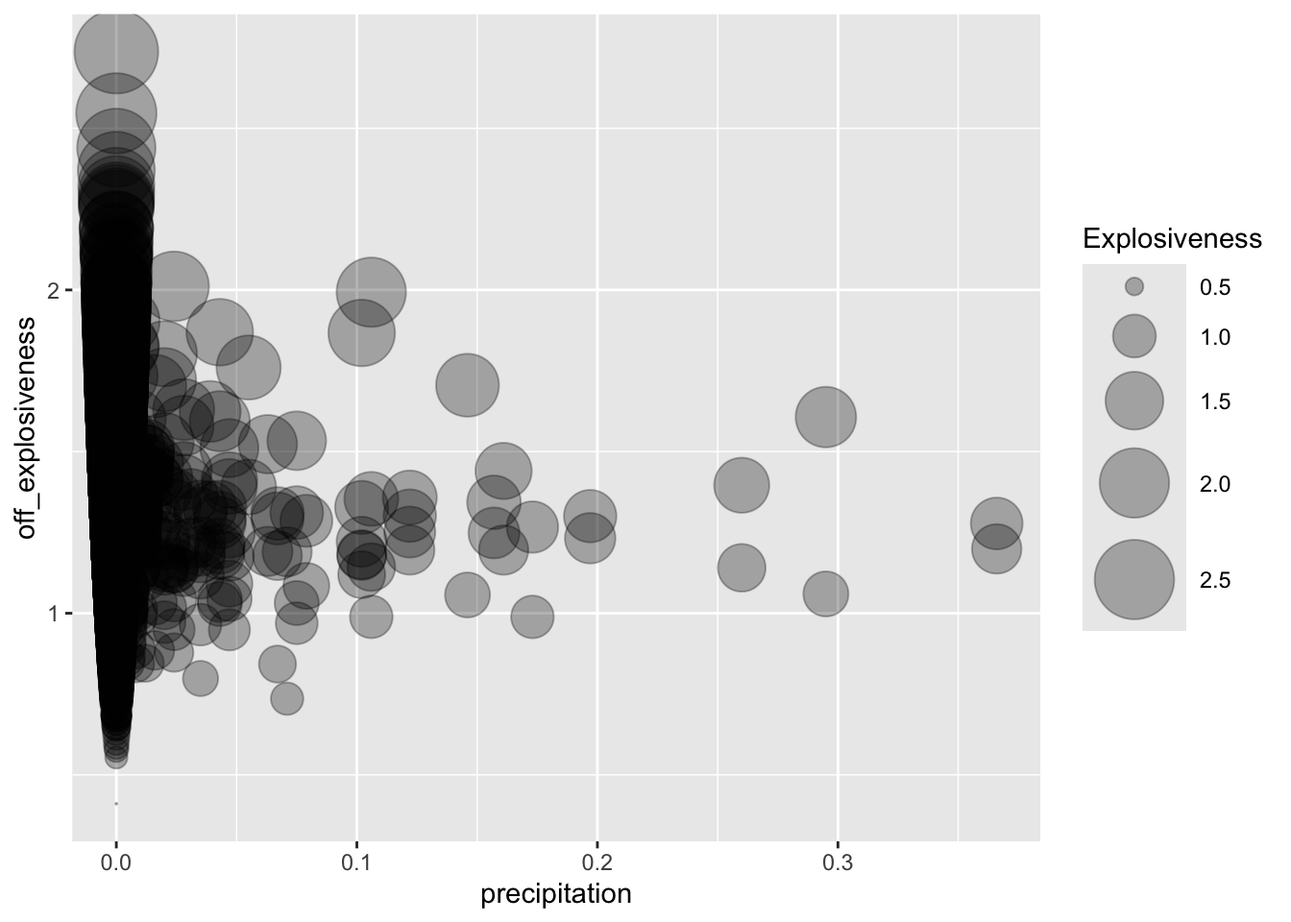
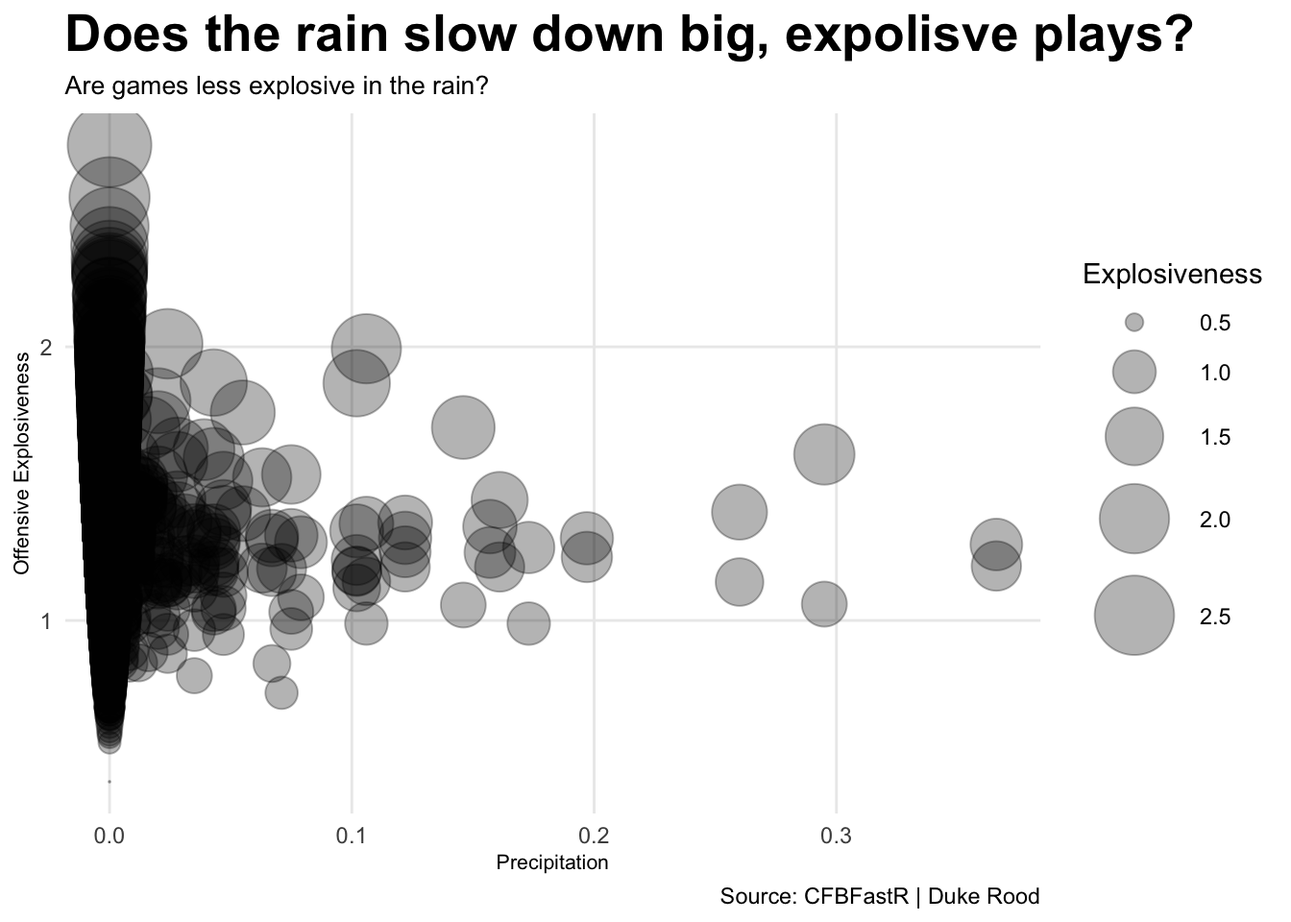
inl

diff --git a/blog/dukerood.github.io/index.html b/blog/dukerood.github.io/index.html
@@ -219,7 +219,21 @@ pre > code.sourceCode > span > a:first-child::before { text-decoration: underlin
 <summary>Code</summary>
 <div class="code-copy-outer-scaffold"><div class="sourceCode cell-code" id="cb2"><pre class="sourceCode r code-with-copy"><code class="sourceCode r"><span id="cb2-1"><a href="#cb2-1" aria-hidden="true" tabindex="-1"></a><span class="fu">ggplot</span>() <span class="sc">+</span> </span>
 <span id="cb2-2"><a href="#cb2-2" aria-hidden="true" tabindex="-1"></a>  <span class="fu">geom_point</span>(<span class="at">data=</span>scores_weather, <span class="fu">aes</span>(<span class="at">x=</span>temperature, <span class="at">y=</span>away_points)) <span class="sc">+</span></span>
-<span id="cb2-3"><a href="#cb2-3" aria-hidden="true" tabindex="-1"></a>  <span class="fu">geom_smooth</span>(<span class="at">data=</span>scores_weather, <span class="fu">aes</span>(<span class="at">x=</span>temperature, <span class="at">y=</span>away_points), <span class="at">method=</span><span class="st">"lm"</span>)</span></code></pre></div><button title="Copy to Clipboard" class="code-copy-button"><i class="bi"></i></button></div>
+<span id="cb2-3"><a href="#cb2-3" aria-hidden="true" tabindex="-1"></a>  <span class="fu">geom_smooth</span>(<span class="at">data=</span>scores_weather, <span class="fu">aes</span>(<span class="at">x=</span>temperature, <span class="at">y=</span>away_points), <span class="at">method=</span><span class="st">"lm"</span>)<span class="sc">+</span> </span>
+<span id="cb2-4"><a href="#cb2-4" aria-hidden="true" tabindex="-1"></a>  <span class="fu">labs</span>(</span>
+<span id="cb2-5"><a href="#cb2-5" aria-hidden="true" tabindex="-1"></a>    <span class="at">x=</span><span class="st">"Temperature"</span>, </span>
+<span id="cb2-6"><a href="#cb2-6" aria-hidden="true" tabindex="-1"></a>    <span class="at">y=</span><span class="st">"Away Team Points"</span>, </span>
+<span id="cb2-7"><a href="#cb2-7" aria-hidden="true" tabindex="-1"></a>    <span class="at">title=</span><span class="st">"Did the Away team score a lot in different climates"</span>, </span>
+<span id="cb2-8"><a href="#cb2-8" aria-hidden="true" tabindex="-1"></a>    <span class="at">subtitle=</span><span class="st">"Comapring this to Home teams average scoring in different climates"</span>, </span>
+<span id="cb2-9"><a href="#cb2-9" aria-hidden="true" tabindex="-1"></a>    <span class="at">caption=</span><span class="st">"Source: CFBFastR | Duke Rood"</span></span>
+<span id="cb2-10"><a href="#cb2-10" aria-hidden="true" tabindex="-1"></a>    ) <span class="sc">+</span></span>
+<span id="cb2-11"><a href="#cb2-11" aria-hidden="true" tabindex="-1"></a>  <span class="fu">theme_minimal</span>() <span class="sc">+</span> </span>
+<span id="cb2-12"><a href="#cb2-12" aria-hidden="true" tabindex="-1"></a>  <span class="fu">theme</span>(</span>
+<span id="cb2-13"><a href="#cb2-13" aria-hidden="true" tabindex="-1"></a>    <span class="at">plot.title =</span> <span class="fu">element_text</span>(<span class="at">size =</span> <span class="dv">20</span>, <span class="at">face =</span> <span class="st">"bold"</span>),</span>
+<span id="cb2-14"><a href="#cb2-14" aria-hidden="true" tabindex="-1"></a>    <span class="at">axis.title =</span> <span class="fu">element_text</span>(<span class="at">size =</span> <span class="dv">8</span>), </span>
+<span id="cb2-15"><a href="#cb2-15" aria-hidden="true" tabindex="-1"></a>    <span class="at">plot.subtitle =</span> <span class="fu">element_text</span>(<span class="at">size=</span><span class="dv">10</span>), </span>
+<span id="cb2-16"><a href="#cb2-16" aria-hidden="true" tabindex="-1"></a>    <span class="at">panel.grid.minor =</span> <span class="fu">element_blank</span>()</span>
+<span id="cb2-17"><a href="#cb2-17" aria-hidden="true" tabindex="-1"></a>    ) </span></code></pre></div><button title="Copy to Clipboard" class="code-copy-button"><i class="bi"></i></button></div>
 </details>
 <div class="cell-output-display">
 <div>
@@ -235,7 +249,21 @@ pre > code.sourceCode > span > a:first-child::before { text-decoration: underlin
 <summary>Code</summary>
 <div class="code-copy-outer-scaffold"><div class="sourceCode cell-code" id="cb3"><pre class="sourceCode r code-with-copy"><code class="sourceCode r"><span id="cb3-1"><a href="#cb3-1" aria-hidden="true" tabindex="-1"></a><span class="fu">ggplot</span>() <span class="sc">+</span> </span>
 <span id="cb3-2"><a href="#cb3-2" aria-hidden="true" tabindex="-1"></a>  <span class="fu">geom_point</span>(<span class="at">data=</span>scores_weather, <span class="fu">aes</span>(<span class="at">x=</span>temperature, <span class="at">y=</span>home_points)) <span class="sc">+</span></span>
-<span id="cb3-3"><a href="#cb3-3" aria-hidden="true" tabindex="-1"></a>  <span class="fu">geom_smooth</span>(<span class="at">data=</span>scores_weather, <span class="fu">aes</span>(<span class="at">x=</span>temperature, <span class="at">y=</span>home_points), <span class="at">method=</span><span class="st">"lm"</span>)</span></code></pre></div><button title="Copy to Clipboard" class="code-copy-button"><i class="bi"></i></button></div>
+<span id="cb3-3"><a href="#cb3-3" aria-hidden="true" tabindex="-1"></a>  <span class="fu">geom_smooth</span>(<span class="at">data=</span>scores_weather, <span class="fu">aes</span>(<span class="at">x=</span>temperature, <span class="at">y=</span>home_points), <span class="at">method=</span><span class="st">"lm"</span>)<span class="sc">+</span> </span>
+<span id="cb3-4"><a href="#cb3-4" aria-hidden="true" tabindex="-1"></a>  <span class="fu">labs</span>(</span>
+<span id="cb3-5"><a href="#cb3-5" aria-hidden="true" tabindex="-1"></a>    <span class="at">x=</span><span class="st">"Temperature"</span>, </span>
+<span id="cb3-6"><a href="#cb3-6" aria-hidden="true" tabindex="-1"></a>    <span class="at">y=</span><span class="st">"Away Team Points"</span>, </span>
+<span id="cb3-7"><a href="#cb3-7" aria-hidden="true" tabindex="-1"></a>    <span class="at">title=</span><span class="st">"Did the Home team score a lot in different climates"</span>, </span>
+<span id="cb3-8"><a href="#cb3-8" aria-hidden="true" tabindex="-1"></a>    <span class="at">subtitle=</span><span class="st">"Comapring this to Home teams average scoring in different climates"</span>, </span>
+<span id="cb3-9"><a href="#cb3-9" aria-hidden="true" tabindex="-1"></a>    <span class="at">caption=</span><span class="st">"Source: CFBFastR | Duke Rood"</span></span>
+<span id="cb3-10"><a href="#cb3-10" aria-hidden="true" tabindex="-1"></a>    ) <span class="sc">+</span></span>
+<span id="cb3-11"><a href="#cb3-11" aria-hidden="true" tabindex="-1"></a>  <span class="fu">theme_minimal</span>() <span class="sc">+</span> </span>
+<span id="cb3-12"><a href="#cb3-12" aria-hidden="true" tabindex="-1"></a>  <span class="fu">theme</span>(</span>
+<span id="cb3-13"><a href="#cb3-13" aria-hidden="true" tabindex="-1"></a>    <span class="at">plot.title =</span> <span class="fu">element_text</span>(<span class="at">size =</span> <span class="dv">20</span>, <span class="at">face =</span> <span class="st">"bold"</span>),</span>
+<span id="cb3-14"><a href="#cb3-14" aria-hidden="true" tabindex="-1"></a>    <span class="at">axis.title =</span> <span class="fu">element_text</span>(<span class="at">size =</span> <span class="dv">8</span>), </span>
+<span id="cb3-15"><a href="#cb3-15" aria-hidden="true" tabindex="-1"></a>    <span class="at">plot.subtitle =</span> <span class="fu">element_text</span>(<span class="at">size=</span><span class="dv">10</span>), </span>
+<span id="cb3-16"><a href="#cb3-16" aria-hidden="true" tabindex="-1"></a>    <span class="at">panel.grid.minor =</span> <span class="fu">element_blank</span>()</span>
+<span id="cb3-17"><a href="#cb3-17" aria-hidden="true" tabindex="-1"></a>    ) </span></code></pre></div><button title="Copy to Clipboard" class="code-copy-button"><i class="bi"></i></button></div>
 </details>
 <div class="cell-output-display">
 <div>
@@ -308,7 +336,21 @@ F-statistic: 0.9715 on 1 and 3173 DF,  p-value: 0.3244</code></pre>
 <div class="cell">
 <details class="code-fold">
 <summary>Code</summary>
-<div class="code-copy-outer-scaffold"><div class="sourceCode cell-code" id="cb8"><pre class="sourceCode r code-with-copy"><code class="sourceCode r"><span id="cb8-1"><a href="#cb8-1" aria-hidden="true" tabindex="-1"></a><span class="fu">ggplot</span>() <span class="sc">+</span> <span class="fu">geom_line</span>(<span class="at">data =</span> game_weather, <span class="fu">aes</span>(<span class="at">x=</span>off_passing_downs_success_rate, <span class="at">y=</span>precipitation)) </span></code></pre></div><button title="Copy to Clipboard" class="code-copy-button"><i class="bi"></i></button></div>
+<div class="code-copy-outer-scaffold"><div class="sourceCode cell-code" id="cb8"><pre class="sourceCode r code-with-copy"><code class="sourceCode r"><span id="cb8-1"><a href="#cb8-1" aria-hidden="true" tabindex="-1"></a><span class="fu">ggplot</span>() <span class="sc">+</span> <span class="fu">geom_line</span>(<span class="at">data =</span> game_weather, <span class="fu">aes</span>(<span class="at">x=</span>off_passing_downs_success_rate, <span class="at">y=</span>precipitation)) <span class="sc">+</span> </span>
+<span id="cb8-2"><a href="#cb8-2" aria-hidden="true" tabindex="-1"></a>  <span class="fu">labs</span>(</span>
+<span id="cb8-3"><a href="#cb8-3" aria-hidden="true" tabindex="-1"></a>    <span class="at">x=</span><span class="st">"Offensive Passing Success Rate"</span>, </span>
+<span id="cb8-4"><a href="#cb8-4" aria-hidden="true" tabindex="-1"></a>    <span class="at">y=</span><span class="st">"Precipitation"</span>, </span>
+<span id="cb8-5"><a href="#cb8-5" aria-hidden="true" tabindex="-1"></a>    <span class="at">title=</span><span class="st">"Is Passing successful in Rainy conditions"</span>, </span>
+<span id="cb8-6"><a href="#cb8-6" aria-hidden="true" tabindex="-1"></a>    <span class="at">subtitle=</span><span class="st">"Seeing if the rain damages the Passing Parade"</span>, </span>
+<span id="cb8-7"><a href="#cb8-7" aria-hidden="true" tabindex="-1"></a>    <span class="at">caption=</span><span class="st">"Source: CFBFastR | Duke Rood"</span></span>
+<span id="cb8-8"><a href="#cb8-8" aria-hidden="true" tabindex="-1"></a>    ) <span class="sc">+</span></span>
+<span id="cb8-9"><a href="#cb8-9" aria-hidden="true" tabindex="-1"></a>  <span class="fu">theme_minimal</span>() <span class="sc">+</span> </span>
+<span id="cb8-10"><a href="#cb8-10" aria-hidden="true" tabindex="-1"></a>  <span class="fu">theme</span>(</span>
+<span id="cb8-11"><a href="#cb8-11" aria-hidden="true" tabindex="-1"></a>    <span class="at">plot.title =</span> <span class="fu">element_text</span>(<span class="at">size =</span> <span class="dv">20</span>, <span class="at">face =</span> <span class="st">"bold"</span>),</span>
+<span id="cb8-12"><a href="#cb8-12" aria-hidden="true" tabindex="-1"></a>    <span class="at">axis.title =</span> <span class="fu">element_text</span>(<span class="at">size =</span> <span class="dv">8</span>), </span>
+<span id="cb8-13"><a href="#cb8-13" aria-hidden="true" tabindex="-1"></a>    <span class="at">plot.subtitle =</span> <span class="fu">element_text</span>(<span class="at">size=</span><span class="dv">10</span>), </span>
+<span id="cb8-14"><a href="#cb8-14" aria-hidden="true" tabindex="-1"></a>    <span class="at">panel.grid.minor =</span> <span class="fu">element_blank</span>()</span>
+<span id="cb8-15"><a href="#cb8-15" aria-hidden="true" tabindex="-1"></a>    ) </span></code></pre></div><button title="Copy to Clipboard" class="code-copy-button"><i class="bi"></i></button></div>
 </details>
 <div class="cell-output-display">
 <div>
@@ -328,7 +370,21 @@ F-statistic: 0.9715 on 1 and 3173 DF,  p-value: 0.3244</code></pre>
 <span id="cb9-3"><a href="#cb9-3" aria-hidden="true" tabindex="-1"></a>    <span class="at">data=</span>game_weather, </span>
 <span id="cb9-4"><a href="#cb9-4" aria-hidden="true" tabindex="-1"></a>    <span class="fu">aes</span>(<span class="at">x=</span>precipitation, <span class="at">y=</span>off_explosiveness, <span class="at">size=</span>off_explosiveness),</span>
 <span id="cb9-5"><a href="#cb9-5" aria-hidden="true" tabindex="-1"></a>    <span class="at">alpha =</span> <span class="fl">0.3</span>) <span class="sc">+</span> </span>
-<span id="cb9-6"><a href="#cb9-6" aria-hidden="true" tabindex="-1"></a>  <span class="fu">scale_size</span>(<span class="at">range =</span> <span class="fu">c</span>(<span class="dv">0</span>, <span class="dv">15</span>), <span class="at">name=</span><span class="st">"Explosiveness"</span>)</span></code></pre></div><button title="Copy to Clipboard" class="code-copy-button"><i class="bi"></i></button></div>
+<span id="cb9-6"><a href="#cb9-6" aria-hidden="true" tabindex="-1"></a>  <span class="fu">scale_size</span>(<span class="at">range =</span> <span class="fu">c</span>(<span class="dv">0</span>, <span class="dv">15</span>), <span class="at">name=</span><span class="st">"Explosiveness"</span>)<span class="sc">+</span> </span>
+<span id="cb9-7"><a href="#cb9-7" aria-hidden="true" tabindex="-1"></a>  <span class="fu">labs</span>(</span>
+<span id="cb9-8"><a href="#cb9-8" aria-hidden="true" tabindex="-1"></a>    <span class="at">x=</span><span class="st">"Precipitation"</span>, </span>
+<span id="cb9-9"><a href="#cb9-9" aria-hidden="true" tabindex="-1"></a>    <span class="at">y=</span><span class="st">"Offensive Explosiveness"</span>, </span>
+<span id="cb9-10"><a href="#cb9-10" aria-hidden="true" tabindex="-1"></a>    <span class="at">title=</span><span class="st">"Does the rain slow down big, expolisve plays?"</span>, </span>
+<span id="cb9-11"><a href="#cb9-11" aria-hidden="true" tabindex="-1"></a>    <span class="at">subtitle=</span><span class="st">"Are games less explosive in the rain?"</span>, </span>
+<span id="cb9-12"><a href="#cb9-12" aria-hidden="true" tabindex="-1"></a>    <span class="at">caption=</span><span class="st">"Source: CFBFastR | Duke Rood"</span></span>
+<span id="cb9-13"><a href="#cb9-13" aria-hidden="true" tabindex="-1"></a>    ) <span class="sc">+</span></span>
+<span id="cb9-14"><a href="#cb9-14" aria-hidden="true" tabindex="-1"></a>  <span class="fu">theme_minimal</span>() <span class="sc">+</span> </span>
+<span id="cb9-15"><a href="#cb9-15" aria-hidden="true" tabindex="-1"></a>  <span class="fu">theme</span>(</span>
+<span id="cb9-16"><a href="#cb9-16" aria-hidden="true" tabindex="-1"></a>    <span class="at">plot.title =</span> <span class="fu">element_text</span>(<span class="at">size =</span> <span class="dv">20</span>, <span class="at">face =</span> <span class="st">"bold"</span>),</span>
+<span id="cb9-17"><a href="#cb9-17" aria-hidden="true" tabindex="-1"></a>    <span class="at">axis.title =</span> <span class="fu">element_text</span>(<span class="at">size =</span> <span class="dv">8</span>), </span>
+<span id="cb9-18"><a href="#cb9-18" aria-hidden="true" tabindex="-1"></a>    <span class="at">plot.subtitle =</span> <span class="fu">element_text</span>(<span class="at">size=</span><span class="dv">10</span>), </span>
+<span id="cb9-19"><a href="#cb9-19" aria-hidden="true" tabindex="-1"></a>    <span class="at">panel.grid.minor =</span> <span class="fu">element_blank</span>()</span>
+<span id="cb9-20"><a href="#cb9-20" aria-hidden="true" tabindex="-1"></a>    ) </span></code></pre></div><button title="Copy to Clipboard" class="code-copy-button"><i class="bi"></i></button></div>
 </details>
 <div class="cell-output-display">
 <div>

diff --git a/dukerood.github.io/does-weather-affect-college-football-games/index.html b/dukerood.github.io/does-weather-affect-college-football-games/index.html
@@ -218,7 +218,21 @@ pre > code.sourceCode > span > a:first-child::before { text-decoration: underlin
 <summary>Code</summary>
 <div class="code-copy-outer-scaffold"><div class="sourceCode cell-code" id="cb2"><pre class="sourceCode r code-with-copy"><code class="sourceCode r"><span id="cb2-1"><a href="#cb2-1" aria-hidden="true" tabindex="-1"></a><span class="fu">ggplot</span>() <span class="sc">+</span> </span>
 <span id="cb2-2"><a href="#cb2-2" aria-hidden="true" tabindex="-1"></a>  <span class="fu">geom_point</span>(<span class="at">data=</span>scores_weather, <span class="fu">aes</span>(<span class="at">x=</span>temperature, <span class="at">y=</span>away_points)) <span class="sc">+</span></span>
-<span id="cb2-3"><a href="#cb2-3" aria-hidden="true" tabindex="-1"></a>  <span class="fu">geom_smooth</span>(<span class="at">data=</span>scores_weather, <span class="fu">aes</span>(<span class="at">x=</span>temperature, <span class="at">y=</span>away_points), <span class="at">method=</span><span class="st">"lm"</span>)</span></code></pre></div><button title="Copy to Clipboard" class="code-copy-button"><i class="bi"></i></button></div>
+<span id="cb2-3"><a href="#cb2-3" aria-hidden="true" tabindex="-1"></a>  <span class="fu">geom_smooth</span>(<span class="at">data=</span>scores_weather, <span class="fu">aes</span>(<span class="at">x=</span>temperature, <span class="at">y=</span>away_points), <span class="at">method=</span><span class="st">"lm"</span>)<span class="sc">+</span> </span>
+<span id="cb2-4"><a href="#cb2-4" aria-hidden="true" tabindex="-1"></a>  <span class="fu">labs</span>(</span>
+<span id="cb2-5"><a href="#cb2-5" aria-hidden="true" tabindex="-1"></a>    <span class="at">x=</span><span class="st">"Temperature"</span>, </span>
+<span id="cb2-6"><a href="#cb2-6" aria-hidden="true" tabindex="-1"></a>    <span class="at">y=</span><span class="st">"Away Team Points"</span>, </span>
+<span id="cb2-7"><a href="#cb2-7" aria-hidden="true" tabindex="-1"></a>    <span class="at">title=</span><span class="st">"Did the Away team score a lot in different climates"</span>, </span>
+<span id="cb2-8"><a href="#cb2-8" aria-hidden="true" tabindex="-1"></a>    <span class="at">subtitle=</span><span class="st">"Comapring this to Home teams average scoring in different climates"</span>, </span>
+<span id="cb2-9"><a href="#cb2-9" aria-hidden="true" tabindex="-1"></a>    <span class="at">caption=</span><span class="st">"Source: CFBFastR | Duke Rood"</span></span>
+<span id="cb2-10"><a href="#cb2-10" aria-hidden="true" tabindex="-1"></a>    ) <span class="sc">+</span></span>
+<span id="cb2-11"><a href="#cb2-11" aria-hidden="true" tabindex="-1"></a>  <span class="fu">theme_minimal</span>() <span class="sc">+</span> </span>
+<span id="cb2-12"><a href="#cb2-12" aria-hidden="true" tabindex="-1"></a>  <span class="fu">theme</span>(</span>
+<span id="cb2-13"><a href="#cb2-13" aria-hidden="true" tabindex="-1"></a>    <span class="at">plot.title =</span> <span class="fu">element_text</span>(<span class="at">size =</span> <span class="dv">20</span>, <span class="at">face =</span> <span class="st">"bold"</span>),</span>
+<span id="cb2-14"><a href="#cb2-14" aria-hidden="true" tabindex="-1"></a>    <span class="at">axis.title =</span> <span class="fu">element_text</span>(<span class="at">size =</span> <span class="dv">8</span>), </span>
+<span id="cb2-15"><a href="#cb2-15" aria-hidden="true" tabindex="-1"></a>    <span class="at">plot.subtitle =</span> <span class="fu">element_text</span>(<span class="at">size=</span><span class="dv">10</span>), </span>
+<span id="cb2-16"><a href="#cb2-16" aria-hidden="true" tabindex="-1"></a>    <span class="at">panel.grid.minor =</span> <span class="fu">element_blank</span>()</span>
+<span id="cb2-17"><a href="#cb2-17" aria-hidden="true" tabindex="-1"></a>    ) </span></code></pre></div><button title="Copy to Clipboard" class="code-copy-button"><i class="bi"></i></button></div>
 </details>
 <div class="cell-output-display">
 <div>
@@ -234,7 +248,21 @@ pre > code.sourceCode > span > a:first-child::before { text-decoration: underlin
 <summary>Code</summary>
 <div class="code-copy-outer-scaffold"><div class="sourceCode cell-code" id="cb3"><pre class="sourceCode r code-with-copy"><code class="sourceCode r"><span id="cb3-1"><a href="#cb3-1" aria-hidden="true" tabindex="-1"></a><span class="fu">ggplot</span>() <span class="sc">+</span> </span>
 <span id="cb3-2"><a href="#cb3-2" aria-hidden="true" tabindex="-1"></a>  <span class="fu">geom_point</span>(<span class="at">data=</span>scores_weather, <span class="fu">aes</span>(<span class="at">x=</span>temperature, <span class="at">y=</span>home_points)) <span class="sc">+</span></span>
-<span id="cb3-3"><a href="#cb3-3" aria-hidden="true" tabindex="-1"></a>  <span class="fu">geom_smooth</span>(<span class="at">data=</span>scores_weather, <span class="fu">aes</span>(<span class="at">x=</span>temperature, <span class="at">y=</span>home_points), <span class="at">method=</span><span class="st">"lm"</span>)</span></code></pre></div><button title="Copy to Clipboard" class="code-copy-button"><i class="bi"></i></button></div>
+<span id="cb3-3"><a href="#cb3-3" aria-hidden="true" tabindex="-1"></a>  <span class="fu">geom_smooth</span>(<span class="at">data=</span>scores_weather, <span class="fu">aes</span>(<span class="at">x=</span>temperature, <span class="at">y=</span>home_points), <span class="at">method=</span><span class="st">"lm"</span>)<span class="sc">+</span> </span>
+<span id="cb3-4"><a href="#cb3-4" aria-hidden="true" tabindex="-1"></a>  <span class="fu">labs</span>(</span>
+<span id="cb3-5"><a href="#cb3-5" aria-hidden="true" tabindex="-1"></a>    <span class="at">x=</span><span class="st">"Temperature"</span>, </span>
+<span id="cb3-6"><a href="#cb3-6" aria-hidden="true" tabindex="-1"></a>    <span class="at">y=</span><span class="st">"Away Team Points"</span>, </span>
+<span id="cb3-7"><a href="#cb3-7" aria-hidden="true" tabindex="-1"></a>    <span class="at">title=</span><span class="st">"Did the Home team score a lot in different climates"</span>, </span>
+<span id="cb3-8"><a href="#cb3-8" aria-hidden="true" tabindex="-1"></a>    <span class="at">subtitle=</span><span class="st">"Comapring this to Home teams average scoring in different climates"</span>, </span>
+<span id="cb3-9"><a href="#cb3-9" aria-hidden="true" tabindex="-1"></a>    <span class="at">caption=</span><span class="st">"Source: CFBFastR | Duke Rood"</span></span>
+<span id="cb3-10"><a href="#cb3-10" aria-hidden="true" tabindex="-1"></a>    ) <span class="sc">+</span></span>
+<span id="cb3-11"><a href="#cb3-11" aria-hidden="true" tabindex="-1"></a>  <span class="fu">theme_minimal</span>() <span class="sc">+</span> </span>
+<span id="cb3-12"><a href="#cb3-12" aria-hidden="true" tabindex="-1"></a>  <span class="fu">theme</span>(</span>
+<span id="cb3-13"><a href="#cb3-13" aria-hidden="true" tabindex="-1"></a>    <span class="at">plot.title =</span> <span class="fu">element_text</span>(<span class="at">size =</span> <span class="dv">20</span>, <span class="at">face =</span> <span class="st">"bold"</span>),</span>
+<span id="cb3-14"><a href="#cb3-14" aria-hidden="true" tabindex="-1"></a>    <span class="at">axis.title =</span> <span class="fu">element_text</span>(<span class="at">size =</span> <span class="dv">8</span>), </span>
+<span id="cb3-15"><a href="#cb3-15" aria-hidden="true" tabindex="-1"></a>    <span class="at">plot.subtitle =</span> <span class="fu">element_text</span>(<span class="at">size=</span><span class="dv">10</span>), </span>
+<span id="cb3-16"><a href="#cb3-16" aria-hidden="true" tabindex="-1"></a>    <span class="at">panel.grid.minor =</span> <span class="fu">element_blank</span>()</span>
+<span id="cb3-17"><a href="#cb3-17" aria-hidden="true" tabindex="-1"></a>    ) </span></code></pre></div><button title="Copy to Clipboard" class="code-copy-button"><i class="bi"></i></button></div>
 </details>
 <div class="cell-output-display">
 <div>
@@ -307,7 +335,21 @@ F-statistic: 0.9715 on 1 and 3173 DF,  p-value: 0.3244</code></pre>
 <div class="cell">
 <details class="code-fold">
 <summary>Code</summary>
-<div class="code-copy-outer-scaffold"><div class="sourceCode cell-code" id="cb8"><pre class="sourceCode r code-with-copy"><code class="sourceCode r"><span id="cb8-1"><a href="#cb8-1" aria-hidden="true" tabindex="-1"></a><span class="fu">ggplot</span>() <span class="sc">+</span> <span class="fu">geom_line</span>(<span class="at">data =</span> game_weather, <span class="fu">aes</span>(<span class="at">x=</span>off_passing_downs_success_rate, <span class="at">y=</span>precipitation)) </span></code></pre></div><button title="Copy to Clipboard" class="code-copy-button"><i class="bi"></i></button></div>
+<div class="code-copy-outer-scaffold"><div class="sourceCode cell-code" id="cb8"><pre class="sourceCode r code-with-copy"><code class="sourceCode r"><span id="cb8-1"><a href="#cb8-1" aria-hidden="true" tabindex="-1"></a><span class="fu">ggplot</span>() <span class="sc">+</span> <span class="fu">geom_line</span>(<span class="at">data =</span> game_weather, <span class="fu">aes</span>(<span class="at">x=</span>off_passing_downs_success_rate, <span class="at">y=</span>precipitation)) <span class="sc">+</span> </span>
+<span id="cb8-2"><a href="#cb8-2" aria-hidden="true" tabindex="-1"></a>  <span class="fu">labs</span>(</span>
+<span id="cb8-3"><a href="#cb8-3" aria-hidden="true" tabindex="-1"></a>    <span class="at">x=</span><span class="st">"Offensive Passing Success Rate"</span>, </span>
+<span id="cb8-4"><a href="#cb8-4" aria-hidden="true" tabindex="-1"></a>    <span class="at">y=</span><span class="st">"Precipitation"</span>, </span>
+<span id="cb8-5"><a href="#cb8-5" aria-hidden="true" tabindex="-1"></a>    <span class="at">title=</span><span class="st">"Is Passing successful in Rainy conditions"</span>, </span>
+<span id="cb8-6"><a href="#cb8-6" aria-hidden="true" tabindex="-1"></a>    <span class="at">subtitle=</span><span class="st">"Seeing if the rain damages the Passing Parade"</span>, </span>
+<span id="cb8-7"><a href="#cb8-7" aria-hidden="true" tabindex="-1"></a>    <span class="at">caption=</span><span class="st">"Source: CFBFastR | Duke Rood"</span></span>
+<span id="cb8-8"><a href="#cb8-8" aria-hidden="true" tabindex="-1"></a>    ) <span class="sc">+</span></span>
+<span id="cb8-9"><a href="#cb8-9" aria-hidden="true" tabindex="-1"></a>  <span class="fu">theme_minimal</span>() <span class="sc">+</span> </span>
+<span id="cb8-10"><a href="#cb8-10" aria-hidden="true" tabindex="-1"></a>  <span class="fu">theme</span>(</span>
+<span id="cb8-11"><a href="#cb8-11" aria-hidden="true" tabindex="-1"></a>    <span class="at">plot.title =</span> <span class="fu">element_text</span>(<span class="at">size =</span> <span class="dv">20</span>, <span class="at">face =</span> <span class="st">"bold"</span>),</span>
+<span id="cb8-12"><a href="#cb8-12" aria-hidden="true" tabindex="-1"></a>    <span class="at">axis.title =</span> <span class="fu">element_text</span>(<span class="at">size =</span> <span class="dv">8</span>), </span>
+<span id="cb8-13"><a href="#cb8-13" aria-hidden="true" tabindex="-1"></a>    <span class="at">plot.subtitle =</span> <span class="fu">element_text</span>(<span class="at">size=</span><span class="dv">10</span>), </span>
+<span id="cb8-14"><a href="#cb8-14" aria-hidden="true" tabindex="-1"></a>    <span class="at">panel.grid.minor =</span> <span class="fu">element_blank</span>()</span>
+<span id="cb8-15"><a href="#cb8-15" aria-hidden="true" tabindex="-1"></a>    ) </span></code></pre></div><button title="Copy to Clipboard" class="code-copy-button"><i class="bi"></i></button></div>
 </details>
 <div class="cell-output-display">
 <div>
@@ -327,7 +369,21 @@ F-statistic: 0.9715 on 1 and 3173 DF,  p-value: 0.3244</code></pre>
 <span id="cb9-3"><a href="#cb9-3" aria-hidden="true" tabindex="-1"></a>    <span class="at">data=</span>game_weather, </span>
 <span id="cb9-4"><a href="#cb9-4" aria-hidden="true" tabindex="-1"></a>    <span class="fu">aes</span>(<span class="at">x=</span>precipitation, <span class="at">y=</span>off_explosiveness, <span class="at">size=</span>off_explosiveness),</span>
 <span id="cb9-5"><a href="#cb9-5" aria-hidden="true" tabindex="-1"></a>    <span class="at">alpha =</span> <span class="fl">0.3</span>) <span class="sc">+</span> </span>
-<span id="cb9-6"><a href="#cb9-6" aria-hidden="true" tabindex="-1"></a>  <span class="fu">scale_size</span>(<span class="at">range =</span> <span class="fu">c</span>(<span class="dv">0</span>, <span class="dv">15</span>), <span class="at">name=</span><span class="st">"Explosiveness"</span>)</span></code></pre></div><button title="Copy to Clipboard" class="code-copy-button"><i class="bi"></i></button></div>
+<span id="cb9-6"><a href="#cb9-6" aria-hidden="true" tabindex="-1"></a>  <span class="fu">scale_size</span>(<span class="at">range =</span> <span class="fu">c</span>(<span class="dv">0</span>, <span class="dv">15</span>), <span class="at">name=</span><span class="st">"Explosiveness"</span>)<span class="sc">+</span> </span>
+<span id="cb9-7"><a href="#cb9-7" aria-hidden="true" tabindex="-1"></a>  <span class="fu">labs</span>(</span>
+<span id="cb9-8"><a href="#cb9-8" aria-hidden="true" tabindex="-1"></a>    <span class="at">x=</span><span class="st">"Precipitation"</span>, </span>
+<span id="cb9-9"><a href="#cb9-9" aria-hidden="true" tabindex="-1"></a>    <span class="at">y=</span><span class="st">"Offensive Explosiveness"</span>, </span>
+<span id="cb9-10"><a href="#cb9-10" aria-hidden="true" tabindex="-1"></a>    <span class="at">title=</span><span class="st">"Does the rain slow down big, expolisve plays?"</span>, </span>
+<span id="cb9-11"><a href="#cb9-11" aria-hidden="true" tabindex="-1"></a>    <span class="at">subtitle=</span><span class="st">"Are games less explosive in the rain?"</span>, </span>
+<span id="cb9-12"><a href="#cb9-12" aria-hidden="true" tabindex="-1"></a>    <span class="at">caption=</span><span class="st">"Source: CFBFastR | Duke Rood"</span></span>
+<span id="cb9-13"><a href="#cb9-13" aria-hidden="true" tabindex="-1"></a>    ) <span class="sc">+</span></span>
+<span id="cb9-14"><a href="#cb9-14" aria-hidden="true" tabindex="-1"></a>  <span class="fu">theme_minimal</span>() <span class="sc">+</span> </span>
+<span id="cb9-15"><a href="#cb9-15" aria-hidden="true" tabindex="-1"></a>  <span class="fu">theme</span>(</span>
+<span id="cb9-16"><a href="#cb9-16" aria-hidden="true" tabindex="-1"></a>    <span class="at">plot.title =</span> <span class="fu">element_text</span>(<span class="at">size =</span> <span class="dv">20</span>, <span class="at">face =</span> <span class="st">"bold"</span>),</span>
+<span id="cb9-17"><a href="#cb9-17" aria-hidden="true" tabindex="-1"></a>    <span class="at">axis.title =</span> <span class="fu">element_text</span>(<span class="at">size =</span> <span class="dv">8</span>), </span>
+<span id="cb9-18"><a href="#cb9-18" aria-hidden="true" tabindex="-1"></a>    <span class="at">plot.subtitle =</span> <span class="fu">element_text</span>(<span class="at">size=</span><span class="dv">10</span>), </span>
+<span id="cb9-19"><a href="#cb9-19" aria-hidden="true" tabindex="-1"></a>    <span class="at">panel.grid.minor =</span> <span class="fu">element_blank</span>()</span>
+<span id="cb9-20"><a href="#cb9-20" aria-hidden="true" tabindex="-1"></a>    ) </span></code></pre></div><button title="Copy to Clipboard" class="code-copy-button"><i class="bi"></i></button></div>
 </details>
 <div class="cell-output-display">
 <div>

diff --git a/dukerood.github.io/posts/dukerood.github.io/index.html b/dukerood.github.io/posts/dukerood.github.io/index.html
@@ -219,7 +219,21 @@ pre > code.sourceCode > span > a:first-child::before { text-decoration: underlin
 <summary>Code</summary>
 <div class="code-copy-outer-scaffold"><div class="sourceCode cell-code" id="cb2"><pre class="sourceCode r code-with-copy"><code class="sourceCode r"><span id="cb2-1"><a href="#cb2-1" aria-hidden="true" tabindex="-1"></a><span class="fu">ggplot</span>() <span class="sc">+</span> </span>
 <span id="cb2-2"><a href="#cb2-2" aria-hidden="true" tabindex="-1"></a>  <span class="fu">geom_point</span>(<span class="at">data=</span>scores_weather, <span class="fu">aes</span>(<span class="at">x=</span>temperature, <span class="at">y=</span>away_points)) <span class="sc">+</span></span>
-<span id="cb2-3"><a href="#cb2-3" aria-hidden="true" tabindex="-1"></a>  <span class="fu">geom_smooth</span>(<span class="at">data=</span>scores_weather, <span class="fu">aes</span>(<span class="at">x=</span>temperature, <span class="at">y=</span>away_points), <span class="at">method=</span><span class="st">"lm"</span>)</span></code></pre></div><button title="Copy to Clipboard" class="code-copy-button"><i class="bi"></i></button></div>
+<span id="cb2-3"><a href="#cb2-3" aria-hidden="true" tabindex="-1"></a>  <span class="fu">geom_smooth</span>(<span class="at">data=</span>scores_weather, <span class="fu">aes</span>(<span class="at">x=</span>temperature, <span class="at">y=</span>away_points), <span class="at">method=</span><span class="st">"lm"</span>)<span class="sc">+</span> </span>
+<span id="cb2-4"><a href="#cb2-4" aria-hidden="true" tabindex="-1"></a>  <span class="fu">labs</span>(</span>
+<span id="cb2-5"><a href="#cb2-5" aria-hidden="true" tabindex="-1"></a>    <span class="at">x=</span><span class="st">"Temperature"</span>, </span>
+<span id="cb2-6"><a href="#cb2-6" aria-hidden="true" tabindex="-1"></a>    <span class="at">y=</span><span class="st">"Away Team Points"</span>, </span>
+<span id="cb2-7"><a href="#cb2-7" aria-hidden="true" tabindex="-1"></a>    <span class="at">title=</span><span class="st">"Did the Away team score a lot in different climates"</span>, </span>
+<span id="cb2-8"><a href="#cb2-8" aria-hidden="true" tabindex="-1"></a>    <span class="at">subtitle=</span><span class="st">"Comapring this to Home teams average scoring in different climates"</span>, </span>
+<span id="cb2-9"><a href="#cb2-9" aria-hidden="true" tabindex="-1"></a>    <span class="at">caption=</span><span class="st">"Source: CFBFastR | Duke Rood"</span></span>
+<span id="cb2-10"><a href="#cb2-10" aria-hidden="true" tabindex="-1"></a>    ) <span class="sc">+</span></span>
+<span id="cb2-11"><a href="#cb2-11" aria-hidden="true" tabindex="-1"></a>  <span class="fu">theme_minimal</span>() <span class="sc">+</span> </span>
+<span id="cb2-12"><a href="#cb2-12" aria-hidden="true" tabindex="-1"></a>  <span class="fu">theme</span>(</span>
+<span id="cb2-13"><a href="#cb2-13" aria-hidden="true" tabindex="-1"></a>    <span class="at">plot.title =</span> <span class="fu">element_text</span>(<span class="at">size =</span> <span class="dv">20</span>, <span class="at">face =</span> <span class="st">"bold"</span>),</span>
+<span id="cb2-14"><a href="#cb2-14" aria-hidden="true" tabindex="-1"></a>    <span class="at">axis.title =</span> <span class="fu">element_text</span>(<span class="at">size =</span> <span class="dv">8</span>), </span>
+<span id="cb2-15"><a href="#cb2-15" aria-hidden="true" tabindex="-1"></a>    <span class="at">plot.subtitle =</span> <span class="fu">element_text</span>(<span class="at">size=</span><span class="dv">10</span>), </span>
+<span id="cb2-16"><a href="#cb2-16" aria-hidden="true" tabindex="-1"></a>    <span class="at">panel.grid.minor =</span> <span class="fu">element_blank</span>()</span>
+<span id="cb2-17"><a href="#cb2-17" aria-hidden="true" tabindex="-1"></a>    ) </span></code></pre></div><button title="Copy to Clipboard" class="code-copy-button"><i class="bi"></i></button></div>
 </details>
 <div class="cell-output-display">
 <div>
@@ -235,7 +249,21 @@ pre > code.sourceCode > span > a:first-child::before { text-decoration: underlin
 <summary>Code</summary>
 <div class="code-copy-outer-scaffold"><div class="sourceCode cell-code" id="cb3"><pre class="sourceCode r code-with-copy"><code class="sourceCode r"><span id="cb3-1"><a href="#cb3-1" aria-hidden="true" tabindex="-1"></a><span class="fu">ggplot</span>() <span class="sc">+</span> </span>
 <span id="cb3-2"><a href="#cb3-2" aria-hidden="true" tabindex="-1"></a>  <span class="fu">geom_point</span>(<span class="at">data=</span>scores_weather, <span class="fu">aes</span>(<span class="at">x=</span>temperature, <span class="at">y=</span>home_points)) <span class="sc">+</span></span>
-<span id="cb3-3"><a href="#cb3-3" aria-hidden="true" tabindex="-1"></a>  <span class="fu">geom_smooth</span>(<span class="at">data=</span>scores_weather, <span class="fu">aes</span>(<span class="at">x=</span>temperature, <span class="at">y=</span>home_points), <span class="at">method=</span><span class="st">"lm"</span>)</span></code></pre></div><button title="Copy to Clipboard" class="code-copy-button"><i class="bi"></i></button></div>
+<span id="cb3-3"><a href="#cb3-3" aria-hidden="true" tabindex="-1"></a>  <span class="fu">geom_smooth</span>(<span class="at">data=</span>scores_weather, <span class="fu">aes</span>(<span class="at">x=</span>temperature, <span class="at">y=</span>home_points), <span class="at">method=</span><span class="st">"lm"</span>)<span class="sc">+</span> </span>
+<span id="cb3-4"><a href="#cb3-4" aria-hidden="true" tabindex="-1"></a>  <span class="fu">labs</span>(</span>
+<span id="cb3-5"><a href="#cb3-5" aria-hidden="true" tabindex="-1"></a>    <span class="at">x=</span><span class="st">"Temperature"</span>, </span>
+<span id="cb3-6"><a href="#cb3-6" aria-hidden="true" tabindex="-1"></a>    <span class="at">y=</span><span class="st">"Away Team Points"</span>, </span>
+<span id="cb3-7"><a href="#cb3-7" aria-hidden="true" tabindex="-1"></a>    <span class="at">title=</span><span class="st">"Did the Home team score a lot in different climates"</span>, </span>
+<span id="cb3-8"><a href="#cb3-8" aria-hidden="true" tabindex="-1"></a>    <span class="at">subtitle=</span><span class="st">"Comapring this to Home teams average scoring in different climates"</span>, </span>
+<span id="cb3-9"><a href="#cb3-9" aria-hidden="true" tabindex="-1"></a>    <span class="at">caption=</span><span class="st">"Source: CFBFastR | Duke Rood"</span></span>
+<span id="cb3-10"><a href="#cb3-10" aria-hidden="true" tabindex="-1"></a>    ) <span class="sc">+</span></span>
+<span id="cb3-11"><a href="#cb3-11" aria-hidden="true" tabindex="-1"></a>  <span class="fu">theme_minimal</span>() <span class="sc">+</span> </span>
+<span id="cb3-12"><a href="#cb3-12" aria-hidden="true" tabindex="-1"></a>  <span class="fu">theme</span>(</span>
+<span id="cb3-13"><a href="#cb3-13" aria-hidden="true" tabindex="-1"></a>    <span class="at">plot.title =</span> <span class="fu">element_text</span>(<span class="at">size =</span> <span class="dv">20</span>, <span class="at">face =</span> <span class="st">"bold"</span>),</span>
+<span id="cb3-14"><a href="#cb3-14" aria-hidden="true" tabindex="-1"></a>    <span class="at">axis.title =</span> <span class="fu">element_text</span>(<span class="at">size =</span> <span class="dv">8</span>), </span>
+<span id="cb3-15"><a href="#cb3-15" aria-hidden="true" tabindex="-1"></a>    <span class="at">plot.subtitle =</span> <span class="fu">element_text</span>(<span class="at">size=</span><span class="dv">10</span>), </span>
+<span id="cb3-16"><a href="#cb3-16" aria-hidden="true" tabindex="-1"></a>    <span class="at">panel.grid.minor =</span> <span class="fu">element_blank</span>()</span>
+<span id="cb3-17"><a href="#cb3-17" aria-hidden="true" tabindex="-1"></a>    ) </span></code></pre></div><button title="Copy to Clipboard" class="code-copy-button"><i class="bi"></i></button></div>
 </details>
 <div class="cell-output-display">
 <div>
@@ -308,7 +336,21 @@ F-statistic: 0.9715 on 1 and 3173 DF,  p-value: 0.3244</code></pre>
 <div class="cell">
 <details class="code-fold">
 <summary>Code</summary>
-<div class="code-copy-outer-scaffold"><div class="sourceCode cell-code" id="cb8"><pre class="sourceCode r code-with-copy"><code class="sourceCode r"><span id="cb8-1"><a href="#cb8-1" aria-hidden="true" tabindex="-1"></a><span class="fu">ggplot</span>() <span class="sc">+</span> <span class="fu">geom_line</span>(<span class="at">data =</span> game_weather, <span class="fu">aes</span>(<span class="at">x=</span>off_passing_downs_success_rate, <span class="at">y=</span>precipitation)) </span></code></pre></div><button title="Copy to Clipboard" class="code-copy-button"><i class="bi"></i></button></div>
+<div class="code-copy-outer-scaffold"><div class="sourceCode cell-code" id="cb8"><pre class="sourceCode r code-with-copy"><code class="sourceCode r"><span id="cb8-1"><a href="#cb8-1" aria-hidden="true" tabindex="-1"></a><span class="fu">ggplot</span>() <span class="sc">+</span> <span class="fu">geom_line</span>(<span class="at">data =</span> game_weather, <span class="fu">aes</span>(<span class="at">x=</span>off_passing_downs_success_rate, <span class="at">y=</span>precipitation)) <span class="sc">+</span> </span>
+<span id="cb8-2"><a href="#cb8-2" aria-hidden="true" tabindex="-1"></a>  <span class="fu">labs</span>(</span>
+<span id="cb8-3"><a href="#cb8-3" aria-hidden="true" tabindex="-1"></a>    <span class="at">x=</span><span class="st">"Offensive Passing Success Rate"</span>, </span>
+<span id="cb8-4"><a href="#cb8-4" aria-hidden="true" tabindex="-1"></a>    <span class="at">y=</span><span class="st">"Precipitation"</span>, </span>
+<span id="cb8-5"><a href="#cb8-5" aria-hidden="true" tabindex="-1"></a>    <span class="at">title=</span><span class="st">"Is Passing successful in Rainy conditions"</span>, </span>
+<span id="cb8-6"><a href="#cb8-6" aria-hidden="true" tabindex="-1"></a>    <span class="at">subtitle=</span><span class="st">"Seeing if the rain damages the Passing Parade"</span>, </span>
+<span id="cb8-7"><a href="#cb8-7" aria-hidden="true" tabindex="-1"></a>    <span class="at">caption=</span><span class="st">"Source: CFBFastR | Duke Rood"</span></span>
+<span id="cb8-8"><a href="#cb8-8" aria-hidden="true" tabindex="-1"></a>    ) <span class="sc">+</span></span>
+<span id="cb8-9"><a href="#cb8-9" aria-hidden="true" tabindex="-1"></a>  <span class="fu">theme_minimal</span>() <span class="sc">+</span> </span>
+<span id="cb8-10"><a href="#cb8-10" aria-hidden="true" tabindex="-1"></a>  <span class="fu">theme</span>(</span>
+<span id="cb8-11"><a href="#cb8-11" aria-hidden="true" tabindex="-1"></a>    <span class="at">plot.title =</span> <span class="fu">element_text</span>(<span class="at">size =</span> <span class="dv">20</span>, <span class="at">face =</span> <span class="st">"bold"</span>),</span>
+<span id="cb8-12"><a href="#cb8-12" aria-hidden="true" tabindex="-1"></a>    <span class="at">axis.title =</span> <span class="fu">element_text</span>(<span class="at">size =</span> <span class="dv">8</span>), </span>
+<span id="cb8-13"><a href="#cb8-13" aria-hidden="true" tabindex="-1"></a>    <span class="at">plot.subtitle =</span> <span class="fu">element_text</span>(<span class="at">size=</span><span class="dv">10</span>), </span>
+<span id="cb8-14"><a href="#cb8-14" aria-hidden="true" tabindex="-1"></a>    <span class="at">panel.grid.minor =</span> <span class="fu">element_blank</span>()</span>
+<span id="cb8-15"><a href="#cb8-15" aria-hidden="true" tabindex="-1"></a>    ) </span></code></pre></div><button title="Copy to Clipboard" class="code-copy-button"><i class="bi"></i></button></div>
 </details>
 <div class="cell-output-display">
 <div>
@@ -328,7 +370,21 @@ F-statistic: 0.9715 on 1 and 3173 DF,  p-value: 0.3244</code></pre>
 <span id="cb9-3"><a href="#cb9-3" aria-hidden="true" tabindex="-1"></a>    <span class="at">data=</span>game_weather, </span>
 <span id="cb9-4"><a href="#cb9-4" aria-hidden="true" tabindex="-1"></a>    <span class="fu">aes</span>(<span class="at">x=</span>precipitation, <span class="at">y=</span>off_explosiveness, <span class="at">size=</span>off_explosiveness),</span>
 <span id="cb9-5"><a href="#cb9-5" aria-hidden="true" tabindex="-1"></a>    <span class="at">alpha =</span> <span class="fl">0.3</span>) <span class="sc">+</span> </span>
-<span id="cb9-6"><a href="#cb9-6" aria-hidden="true" tabindex="-1"></a>  <span class="fu">scale_size</span>(<span class="at">range =</span> <span class="fu">c</span>(<span class="dv">0</span>, <span class="dv">15</span>), <span class="at">name=</span><span class="st">"Explosiveness"</span>)</span></code></pre></div><button title="Copy to Clipboard" class="code-copy-button"><i class="bi"></i></button></div>
+<span id="cb9-6"><a href="#cb9-6" aria-hidden="true" tabindex="-1"></a>  <span class="fu">scale_size</span>(<span class="at">range =</span> <span class="fu">c</span>(<span class="dv">0</span>, <span class="dv">15</span>), <span class="at">name=</span><span class="st">"Explosiveness"</span>)<span class="sc">+</span> </span>
+<span id="cb9-7"><a href="#cb9-7" aria-hidden="true" tabindex="-1"></a>  <span class="fu">labs</span>(</span>
+<span id="cb9-8"><a href="#cb9-8" aria-hidden="true" tabindex="-1"></a>    <span class="at">x=</span><span class="st">"Precipitation"</span>, </span>
+<span id="cb9-9"><a href="#cb9-9" aria-hidden="true" tabindex="-1"></a>    <span class="at">y=</span><span class="st">"Offensive Explosiveness"</span>, </span>
+<span id="cb9-10"><a href="#cb9-10" aria-hidden="true" tabindex="-1"></a>    <span class="at">title=</span><span class="st">"Does the rain slow down big, expolisve plays?"</span>, </span>
+<span id="cb9-11"><a href="#cb9-11" aria-hidden="true" tabindex="-1"></a>    <span class="at">subtitle=</span><span class="st">"Are games less explosive in the rain?"</span>, </span>
+<span id="cb9-12"><a href="#cb9-12" aria-hidden="true" tabindex="-1"></a>    <span class="at">caption=</span><span class="st">"Source: CFBFastR | Duke Rood"</span></span>
+<span id="cb9-13"><a href="#cb9-13" aria-hidden="true" tabindex="-1"></a>    ) <span class="sc">+</span></span>
+<span id="cb9-14"><a href="#cb9-14" aria-hidden="true" tabindex="-1"></a>  <span class="fu">theme_minimal</span>() <span class="sc">+</span> </span>
+<span id="cb9-15"><a href="#cb9-15" aria-hidden="true" tabindex="-1"></a>  <span class="fu">theme</span>(</span>
+<span id="cb9-16"><a href="#cb9-16" aria-hidden="true" tabindex="-1"></a>    <span class="at">plot.title =</span> <span class="fu">element_text</span>(<span class="at">size =</span> <span class="dv">20</span>, <span class="at">face =</span> <span class="st">"bold"</span>),</span>
+<span id="cb9-17"><a href="#cb9-17" aria-hidden="true" tabindex="-1"></a>    <span class="at">axis.title =</span> <span class="fu">element_text</span>(<span class="at">size =</span> <span class="dv">8</span>), </span>
+<span id="cb9-18"><a href="#cb9-18" aria-hidden="true" tabindex="-1"></a>    <span class="at">plot.subtitle =</span> <span class="fu">element_text</span>(<span class="at">size=</span><span class="dv">10</span>), </span>
+<span id="cb9-19"><a href="#cb9-19" aria-hidden="true" tabindex="-1"></a>    <span class="at">panel.grid.minor =</span> <span class="fu">element_blank</span>()</span>
+<span id="cb9-20"><a href="#cb9-20" aria-hidden="true" tabindex="-1"></a>    ) </span></code></pre></div><button title="Copy to Clipboard" class="code-copy-button"><i class="bi"></i></button></div>
 </details>
 <div class="cell-output-display">
 <div>
